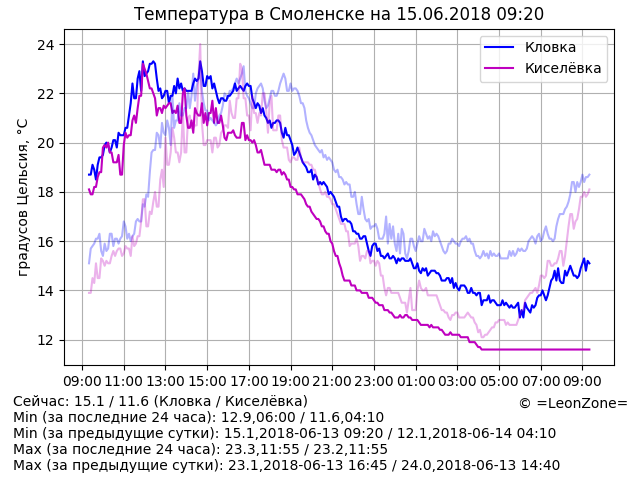
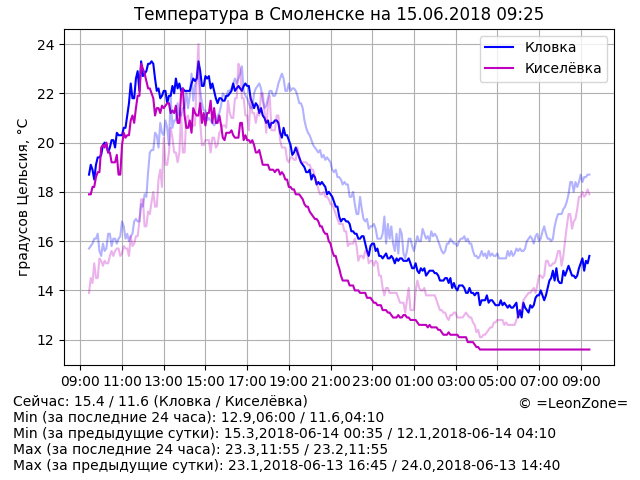
Update data

Changed region(s): [[0.125, 0.0938, 0.9375, 0.75], [0.0938, 0.7812, 0.9375, 0.8438], [0.4688, 0.875, 0.875, 0.9375]]

diff --git a/index.html b/index.html
@@ -14,9 +14,9 @@
 	<p align="center"><script>document.write("<img src=\"graph.png?rnd="+Math.random()+"\" alt=\"Температура в Смоленске\" align=\"middle\" width=\"640\" height=\"480\" />")</script>
 	<p hidden="true">
 <!-- textinfo -->
-Сейчас: 15.1 / 11.6 (Кловка / Киселёвка)
+Сейчас: 15.4 / 11.6 (Кловка / Киселёвка)
 Min (за последние 24 часа): 12.9,06:00 / 11.6,04:10
-Min (за предыдущие сутки): 15.1,2018-06-13 09:20 / 12.1,2018-06-14 04:10
+Min (за предыдущие сутки): 15.3,2018-06-14 00:35 / 12.1,2018-06-14 04:10
 Max (за последние 24 часа): 23.3,11:55 / 23.2,11:55
 Max (за предыдущие сутки): 23.1,2018-06-13 16:45 / 24.0,2018-06-13 14:40
 <!-- /textinfo -->
